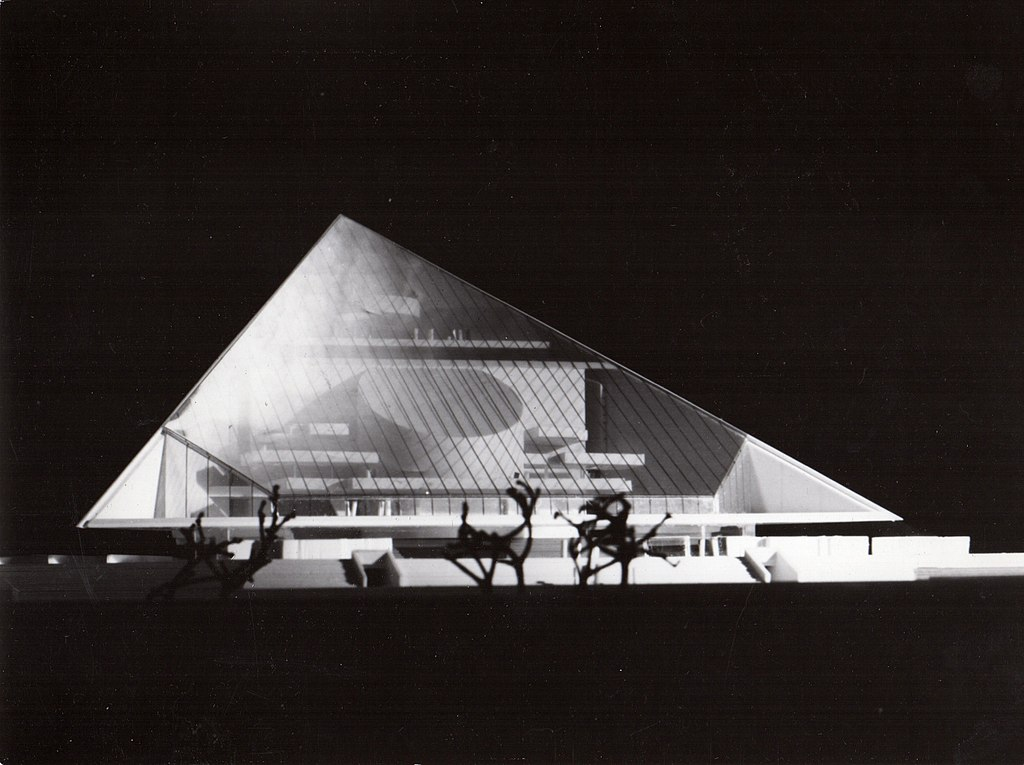
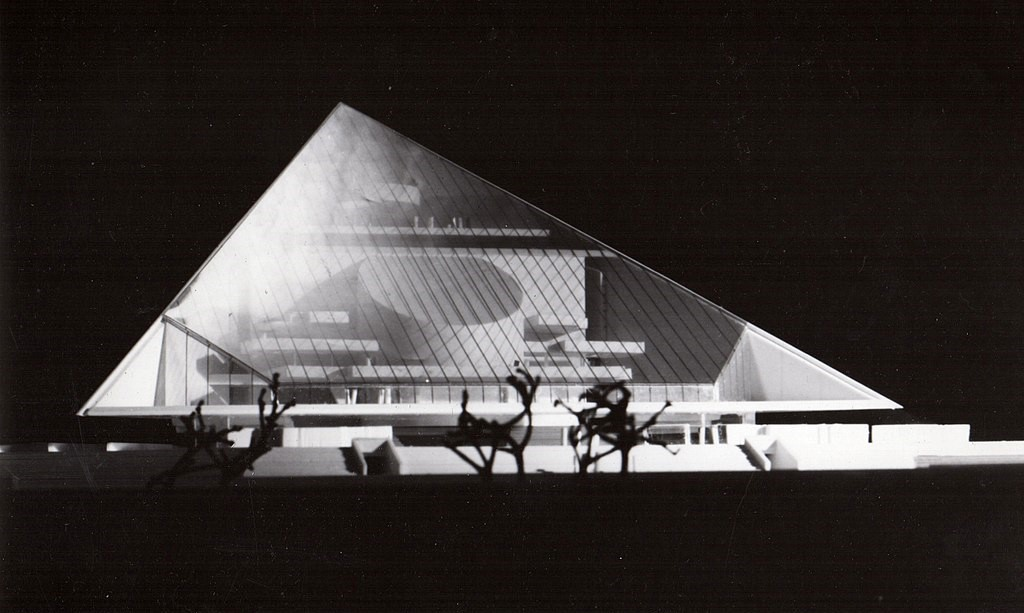
feat: apdate image gallery

Changed region(s): [[0.0625, 0.155, 1.0, 0.8059]]

diff --git a/src/components/ImageGallery/index.css b/src/components/ImageGallery/index.css
@@ -1,19 +1,11 @@
 @import "../../../node_modules/react-image-gallery/styles/css/image-gallery.css";
-.photogallery{
-  padding: 50px 0;
-}
-
-.image-gallery {
-  max-width: 1200px;
-  margin: 60px auto;
-}
 
 .image-gallery-thumbnail {
   display: inline-block;
   border: 4px solid transparent;
   transition: border .3s ease-out;
   width: 191px; 
-  filter: grayscale(100%);
+  filter: sepia(90%);
 }
 
 .image-gallery-thumbnail.active {
@@ -22,17 +14,46 @@
 }
 
 .image-gallery-description {
-  font-size: 24px;
+  font-size: 18px;
   width: 100%;
   text-align: center;
   padding: 0 !important;
-  line-height: 85px !important;
+  line-height: 50px !important;
   bottom: 0 !important;
-  background: rgba(0, 0, 0, 0.5) !important;
+  background: #C3A871 !important;
+  color: #41414E !important;
 }
 
-.image-gallery-fullscreen-button:hover::before, .image-gallery-play-button:hover::before, .image-gallery-left-nav:hover::before, .image-gallery-right-nav:hover::before {
-  color: #b0c0c0;
+.image-gallery-fullscreen-button::before,
+.image-gallery-play-button::before {
+  font-size: 2.7em;
+  padding: 10px;
+  text-shadow: none !important;
+}
+
+.image-gallery-left-nav, 
+.image-gallery-right-nav {
+  color: #fff !important;
+  font-size: 2em;
+  padding: 10px !important;
+  background-color: #C3A871;
+}
+
+.image-gallery-fullscreen-button:hover::before,
+.image-gallery-play-button:hover::before,
+.image-gallery-left-nav:hover::before,
+.image-gallery-right-nav:hover::before {
+  color: #41414E;
+}
+
+.image-gallery-fullscreen-button::before,
+.image-gallery-play-button::before,
+.image-gallery-left-nav::before,
+.image-gallery-right-nav::before {
+  color: #41414E;
+  line-height: .7;
+  text-shadow: none !important;
+  transition: none !important;
 }
 
 @media (max-width: 1220px) {

diff --git a/src/components/ImageGallery/index.js b/src/components/ImageGallery/index.js
@@ -14,8 +14,8 @@ function ImageGalleryComponent({ data, title }) {
   });
 
   return (
-    <div className="photogallery">
-      <h2 className="h3 mb-3 ohra">{title}</h2>
+    <div className="photogallery pt-5 pb-5 container">
+      <h2 className="h3 mb-5 ohra">{title}</h2>
       <ImageGallery items={images} />
     </div>
   );
